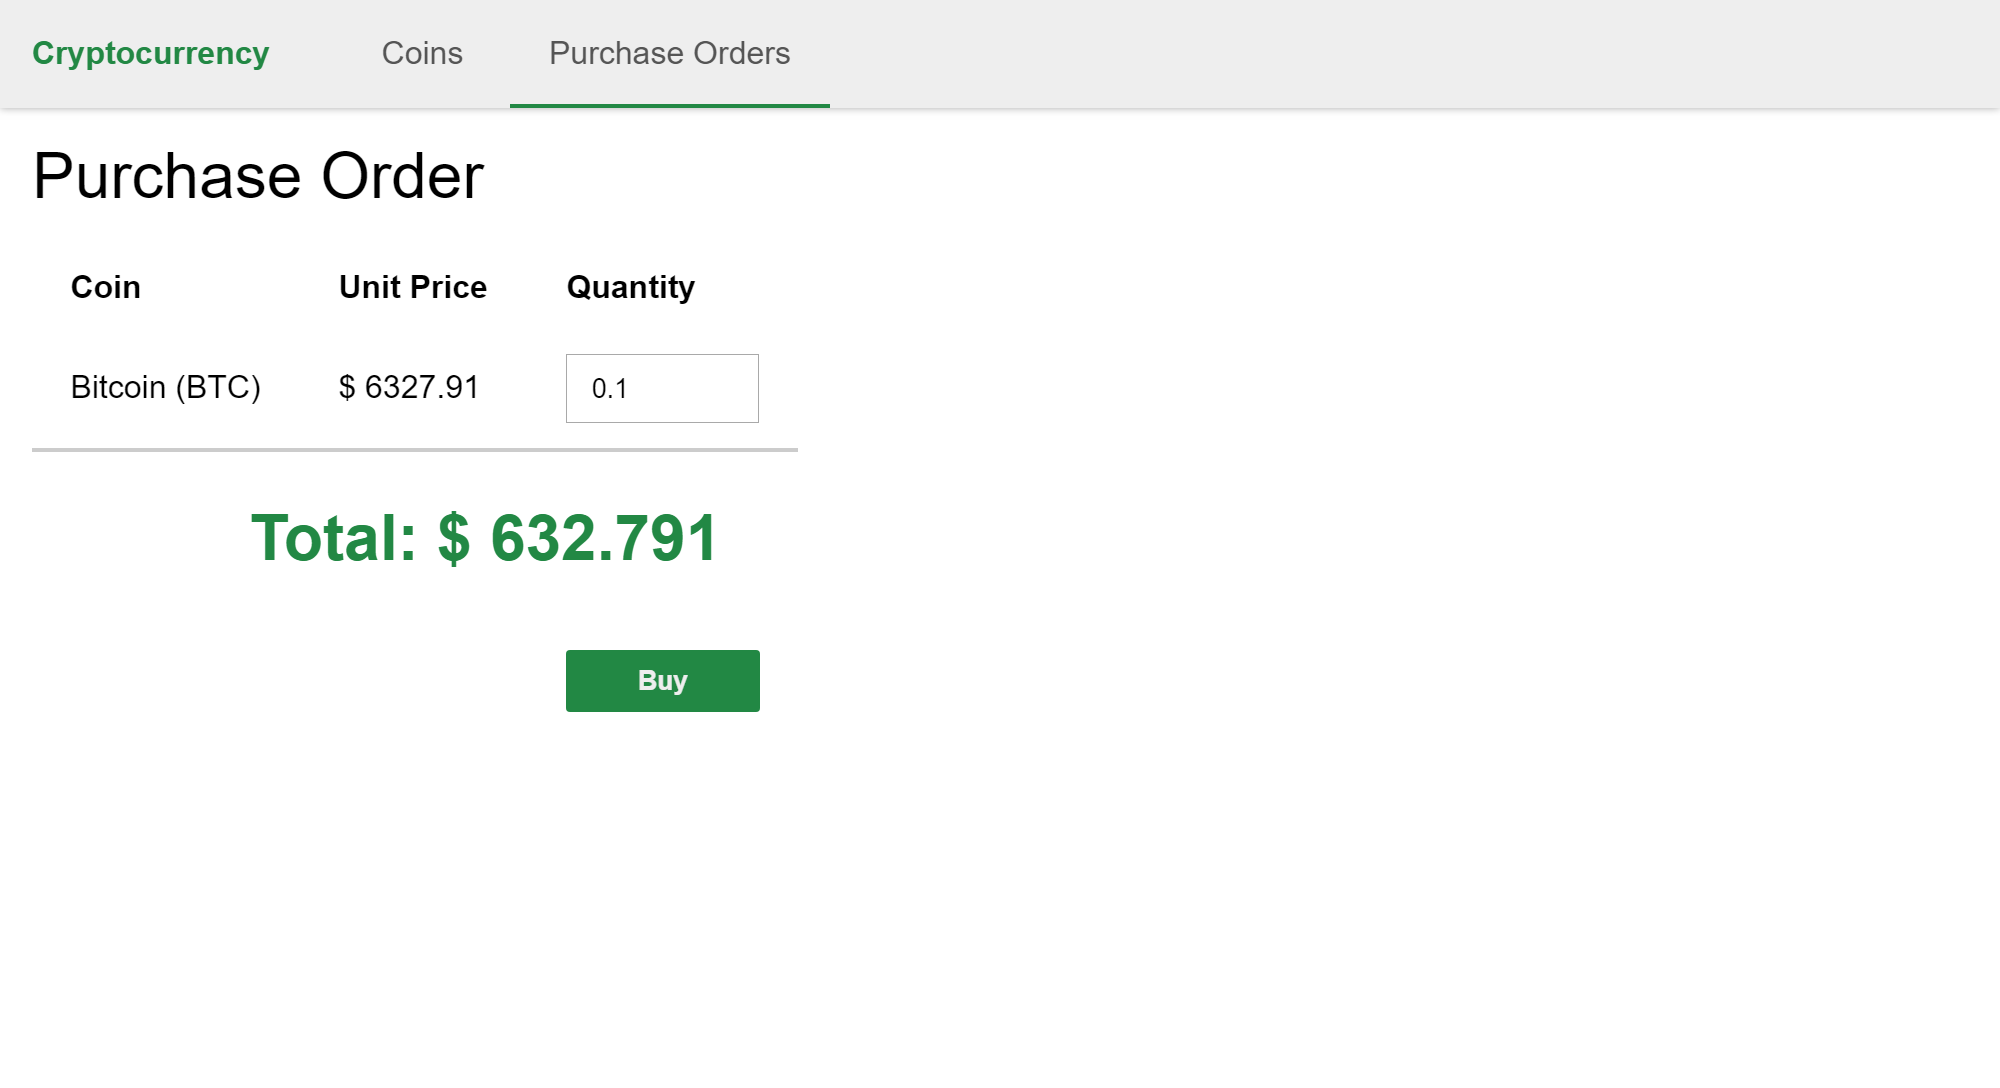
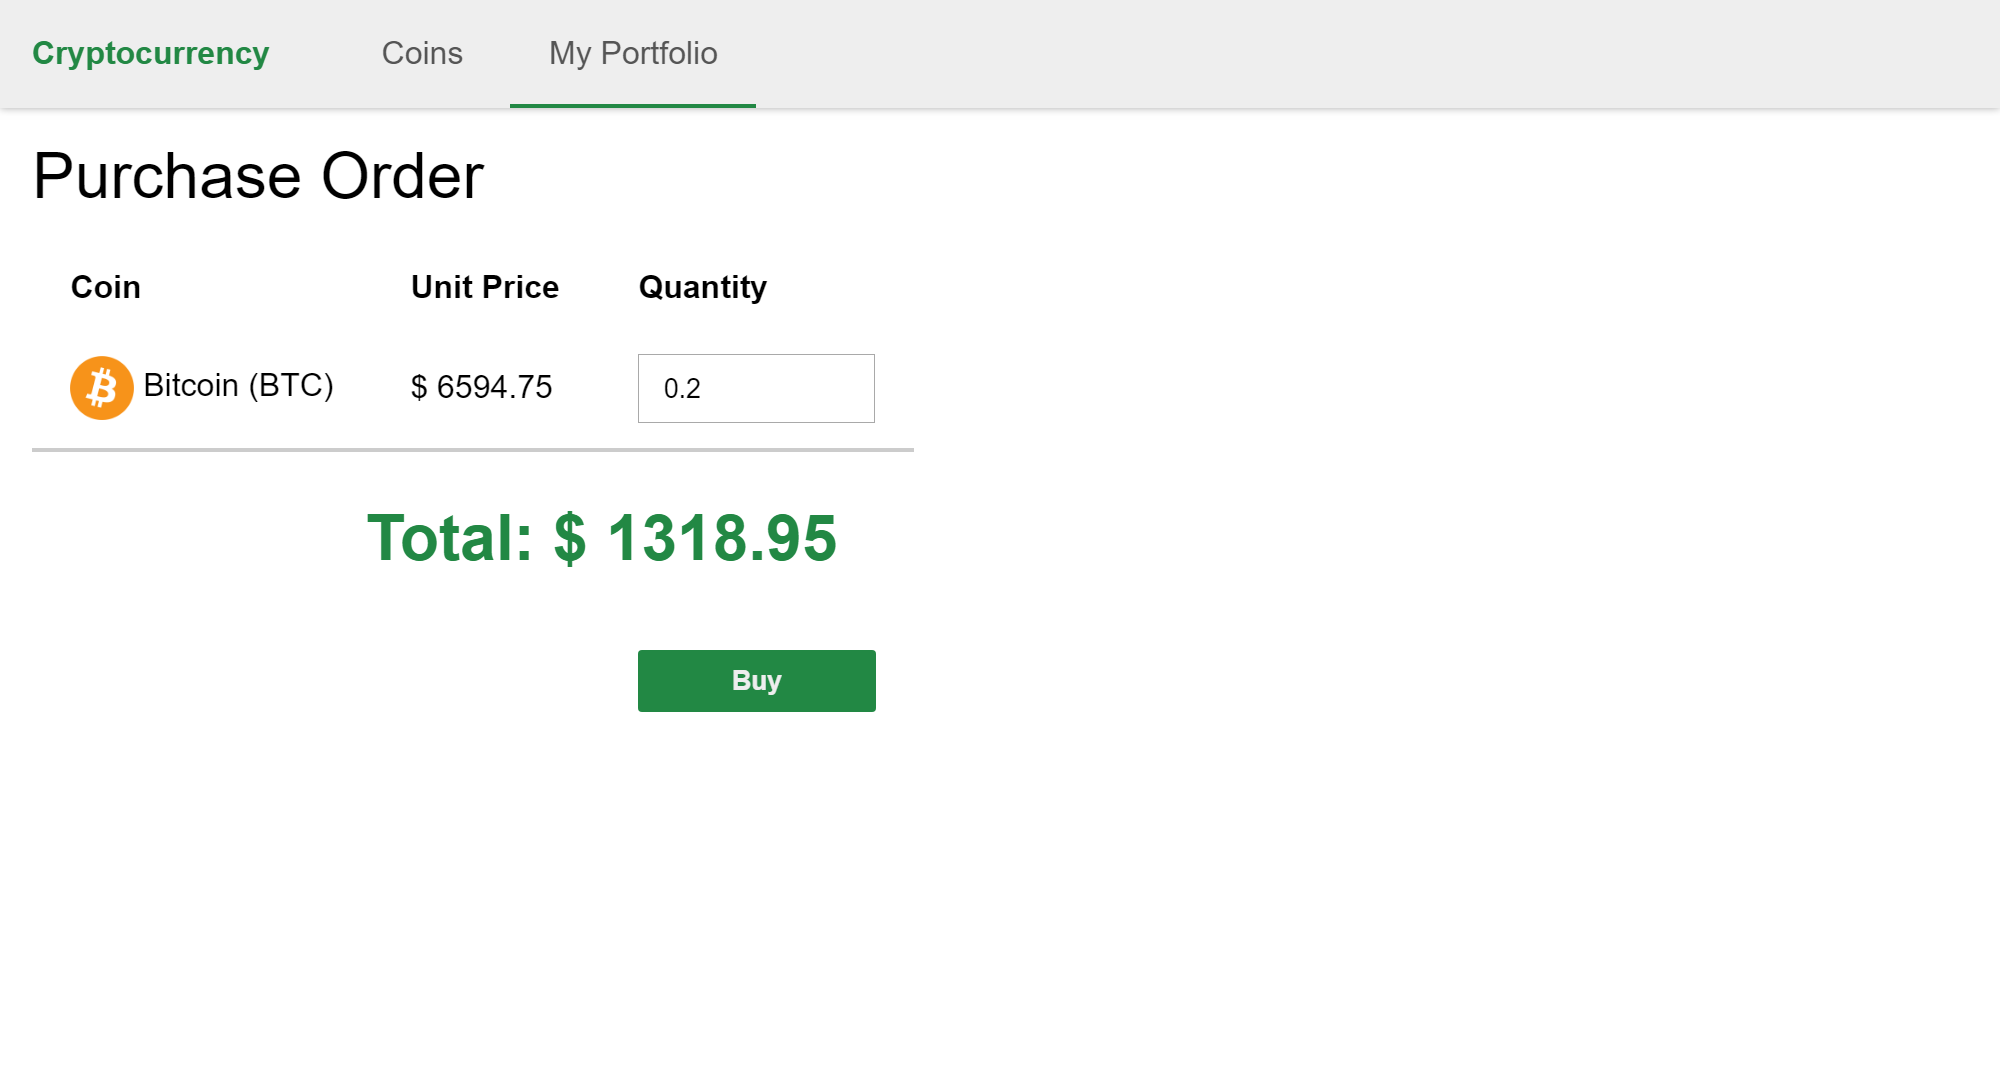
Update screenshots in README.md

diff --git a/README.md b/README.md
@@ -46,5 +46,5 @@ Buy:
 Purchase order:
 ![Purchase order](doc/images/purchase_order.png)
 
-Purchase orders:
-![Purchase orders list](doc/images/purchase_orders.png)
+My Portfolio:
+![Purchase orders list](doc/images/my_portfolio.png)
